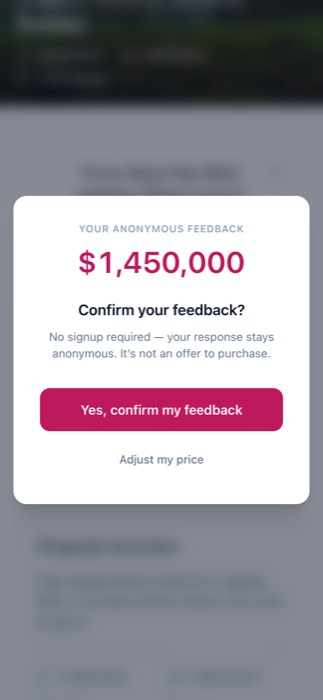
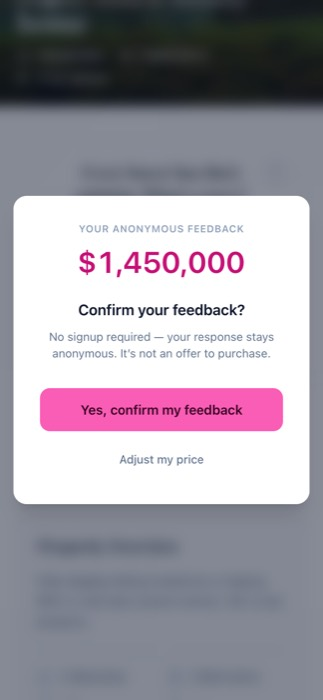
Mitch Harrop Team: brighter pink (#FA5DB5) from his public branding, with readable text
Accent fill (buttons, sliders, rings, rules, nav highlight) is now #FA5DB5 (hover/gradient #F943A9). White is not
readable on it (2.9:1), so text ON the pink is deep plum #3D0626 (5.8:1) and pink TEXT on white (prices, badges,
links, labels, icons) uses #C61076 (5.6:1). New CSS variables (--brand-accent-text, --brand-button-text,
--team-accent-text, --team-accent-on) are set only by the team theme and fall back to today's values, so every
other brand, team and agent is unchanged.

Tests: team-theme 35 (contrast guards updated); full unit suite 2196 passed, the 4 leadership failures are
pre-existing on main. next build OK. Staging: 42/42 page + 16/16 office-list checks with the new colours.

Changed region(s): [[0.1238, 0.54, 0.8978, 0.63], [0.4025, 0.36, 0.4334, 0.39], [0.2477, 0.36, 0.2786, 0.39]]

diff --git a/src/app/dashboard/page.js b/src/app/dashboard/page.js
@@ -222,7 +222,7 @@ function Sidebar({ active, onNavigate, onSignOut, sidebarOpen, setSidebarOpen, u
                     : 'text-stone-500 hover:text-stone-900 hover:bg-stone-100/60'
                 }`}
               >
-                <Icon className={`w-4 h-4 ${isActive ? 'text-[var(--team-accent,currentColor)]' : ''}`} strokeWidth={1.5} />
+                <Icon className={`w-4 h-4 ${isActive ? 'text-[var(--team-accent-text,currentColor)]' : ''}`} strokeWidth={1.5} />
                 {item.label}
               </Link>
             );
@@ -240,7 +240,7 @@ function Sidebar({ active, onNavigate, onSignOut, sidebarOpen, setSidebarOpen, u
                   : 'text-stone-500 hover:text-stone-900 hover:bg-stone-100/60'
               }`}
             >
-              <Icon className={`w-4 h-4 ${isActive ? 'text-[var(--team-accent,currentColor)]' : ''}`} strokeWidth={1.5} />
+              <Icon className={`w-4 h-4 ${isActive ? 'text-[var(--team-accent-text,currentColor)]' : ''}`} strokeWidth={1.5} />
               {item.label}
             </button>
           );
@@ -378,7 +378,7 @@ function PropertyCard({ property, onToggleVisibility, toggling, onArchive, archi
           <span className={`px-2.5 py-1 text-[10px] font-medium uppercase tracking-[0.12em] rounded-sm ${
             property.listingStatus === 'on-market'
               ? 'bg-white/90 text-stone-800'
-              : 'bg-white/90 text-[var(--team-accent,#c64500)]'
+              : 'bg-white/90 text-[var(--team-accent-text,#c64500)]'
           }`}>
             {property.listingStatus === 'on-market' ? 'On Market' : 'Pre-Market'}
           </span>
@@ -412,7 +412,7 @@ function PropertyCard({ property, onToggleVisibility, toggling, onArchive, archi
           href={`/find-property?propertyId=${property.id}`}
           target="_blank"
           rel="noopener noreferrer"
-          className="font-medium text-stone-900 text-sm truncate mb-1 block hover:text-[var(--team-accent,#c64500)] transition-colors"
+          className="font-medium text-stone-900 text-sm truncate mb-1 block hover:text-[var(--team-accent-text,#c64500)] transition-colors"
         >
           {property.formattedAddress || property.address || 'No address'}
         </a>
@@ -695,7 +695,7 @@ function EmptyState({
       </p>
       <Link
         href={href}
-        className="add-property-pulse inline-flex items-center gap-2 px-6 py-3 bg-[var(--team-accent,#e38100)] hover:bg-[var(--team-accent-strong,#cc7400)] text-white text-sm font-semibold tracking-wide rounded-md transition-colors"
+        className="add-property-pulse inline-flex items-center gap-2 px-6 py-3 bg-[var(--team-accent,#e38100)] hover:bg-[var(--team-accent-strong,#cc7400)] text-[var(--team-accent-on,#ffffff)] text-sm font-semibold tracking-wide rounded-md transition-colors"
       >
         <Plus className="w-4 h-4" strokeWidth={1.75} />
         {cta}
@@ -926,7 +926,7 @@ function ProfilePhotoPrompt({ onDismiss }) {
         </button>
         <Link
           href="/dashboard/settings"
-          className="px-4 py-2.5 rounded-xl bg-gradient-to-r from-[var(--team-accent,#e48900)] to-[var(--team-accent-strong,#c64500)] text-white font-semibold text-sm hover:shadow-lg transition-all whitespace-nowrap"
+          className="px-4 py-2.5 rounded-xl bg-gradient-to-r from-[var(--team-accent,#e48900)] to-[var(--team-accent-strong,#c64500)] text-[var(--team-accent-on,#ffffff)] font-semibold text-sm hover:shadow-lg transition-all whitespace-nowrap"
         >
           Upload Photo
         </Link>
@@ -1423,7 +1423,7 @@ function DashboardPage() {
             </button>
             <span className="font-serif text-lg text-stone-900">Dashboard</span>
             <Link href={addHref} className="p-2 hover:bg-stone-100 rounded-md" aria-label="Add property">
-              <Plus className="w-5 h-5 text-[var(--team-accent,#e38100)]" strokeWidth={2} />
+              <Plus className="w-5 h-5 text-[var(--team-accent-text,#e38100)]" strokeWidth={2} />
             </Link>
           </div>
         </div>
@@ -1465,7 +1465,7 @@ function DashboardPage() {
             </div>
             <Link
               href={addHref}
-              className="add-property-pulse hidden sm:inline-flex shrink-0 items-center gap-2 px-6 py-3 bg-[var(--team-accent,#e38100)] hover:bg-[var(--team-accent-strong,#cc7400)] text-white text-sm font-semibold tracking-wide rounded-md transition-colors"
+              className="add-property-pulse hidden sm:inline-flex shrink-0 items-center gap-2 px-6 py-3 bg-[var(--team-accent,#e38100)] hover:bg-[var(--team-accent-strong,#cc7400)] text-[var(--team-accent-on,#ffffff)] text-sm font-semibold tracking-wide rounded-md transition-colors"
             >
               <Plus className="w-4 h-4" strokeWidth={1.75} />
               Add Property
@@ -1581,7 +1581,7 @@ function DashboardPage() {
               href={addHref}
               className="sm:hidden bg-white rounded-md border border-stone-200 px-5 py-4 flex items-center gap-4 hover:border-stone-300 transition-colors group"
             >
-              <Plus className="w-5 h-5 text-[var(--team-accent,#e38100)]" strokeWidth={1.5} />
+              <Plus className="w-5 h-5 text-[var(--team-accent-text,#e38100)]" strokeWidth={1.5} />
               <div className="flex-1">
                 <p className="text-sm font-medium text-stone-900">Add Property</p>
                 <p className="text-xs text-stone-500">List a new property for your client</p>
@@ -1694,7 +1694,7 @@ function DashboardPage() {
             >
               <div className="px-8 pt-9 pb-2 text-center">
                 <div className="mx-auto mb-5 h-px w-10 bg-[var(--team-accent,#e38100)]" aria-hidden="true" />
-                <CheckCircle className="w-7 h-7 text-[var(--team-accent,#e38100)] mx-auto mb-3" />
+                <CheckCircle className="w-7 h-7 text-[var(--team-accent-text,#e38100)] mx-auto mb-3" />
                 <h2 className="font-serif text-2xl text-stone-900">
                   {successModal === 'created' ? 'Property created' : 'Changes saved'}
                 </h2>
@@ -1725,7 +1725,7 @@ function DashboardPage() {
 
                 <button
                   onClick={() => setSuccessModal(null)}
-                  className="w-full mt-2 py-3 bg-[var(--team-accent,#e38100)] hover:bg-[var(--team-accent-strong,#cc7400)] text-white text-sm font-medium tracking-wide rounded-md transition-colors"
+                  className="w-full mt-2 py-3 bg-[var(--team-accent,#e38100)] hover:bg-[var(--team-accent-strong,#cc7400)] text-[var(--team-accent-on,#ffffff)] text-sm font-medium tracking-wide rounded-md transition-colors"
                 >
                   Got it
                 </button>

diff --git a/src/app/dashboard/team/page.js b/src/app/dashboard/team/page.js
@@ -238,7 +238,7 @@ export default function MyTeamPage() {
         {/* Invitations received */}
         {incoming.length > 0 && (
           <section className="bg-white rounded-xl border border-[var(--team-accent-border,var(--color-orange-200))] p-5">
-            <h2 className="text-sm font-bold text-slate-900 flex items-center gap-2"><Mail className="w-4 h-4 text-[var(--team-accent,var(--color-orange-500))]" /> Invitations for you</h2>
+            <h2 className="text-sm font-bold text-slate-900 flex items-center gap-2"><Mail className="w-4 h-4 text-[var(--team-accent-text,var(--color-orange-500))]" /> Invitations for you</h2>
             <ul className="mt-3 divide-y divide-slate-100">
               {incoming.map((i) => (
                 <li key={i.id} className="py-3 flex flex-wrap items-center justify-between gap-3">
@@ -251,7 +251,7 @@ export default function MyTeamPage() {
                     <button
                       onClick={() => respond(i.id, 'accept', 'You’ve joined the team.')}
                       disabled={i.blocked || busy !== null}
-                      className="inline-flex items-center gap-1 px-3.5 py-2 rounded-lg bg-[var(--team-accent,var(--color-orange-500))] text-white text-sm font-semibold disabled:opacity-40 disabled:cursor-not-allowed"
+                      className="inline-flex items-center gap-1 px-3.5 py-2 rounded-lg bg-[var(--team-accent,var(--color-orange-500))] text-[var(--team-accent-on,#ffffff)] text-sm font-semibold disabled:opacity-40 disabled:cursor-not-allowed"
                     ><Check className="w-4 h-4" /> Accept</button>
                     <button
                       onClick={() => respond(i.id, 'decline', 'Invitation declined.')}
@@ -313,7 +313,7 @@ export default function MyTeamPage() {
                   autoComplete="off"
                   className="min-w-0 flex-1 px-3 py-2 rounded-lg border border-slate-200 text-sm text-slate-900 placeholder:text-slate-400 focus:outline-none focus:ring-2 focus:ring-[color-mix(in_oklab,var(--team-accent,var(--color-orange-500))_20%,transparent)]"
                 />
-                <button type="submit" disabled={busy !== null || !email.trim()} className="px-4 py-2 rounded-lg bg-[var(--team-accent,var(--color-orange-500))] text-white text-sm font-semibold disabled:opacity-40">
+                <button type="submit" disabled={busy !== null || !email.trim()} className="px-4 py-2 rounded-lg bg-[var(--team-accent,var(--color-orange-500))] text-[var(--team-accent-on,#ffffff)] text-sm font-semibold disabled:opacity-40">
                   {busy === 'invite' ? 'Sending…' : 'Invite'}
                 </button>
               </form>
@@ -348,7 +348,7 @@ export default function MyTeamPage() {
                     role="tab"
                     aria-selected={tab === id}
                     onClick={() => setTab(id)}
-                    className={`px-3.5 py-1.5 rounded-md ${tab === id ? 'bg-white text-[var(--team-accent,var(--color-slate-900))] shadow-sm' : 'text-slate-500 hover:text-slate-800'}`}
+                    className={`px-3.5 py-1.5 rounded-md ${tab === id ? 'bg-white text-[var(--team-accent-text,var(--color-slate-900))] shadow-sm' : 'text-slate-500 hover:text-slate-800'}`}
                   >{label}</button>
                 ))}
               </div>
@@ -376,7 +376,7 @@ export default function MyTeamPage() {
             ) : listing.status === 'error' ? (
               <div>
                 <p className="text-sm text-slate-600 mb-3">We couldn&apos;t load these properties.</p>
-                <button onClick={tab === 'team' ? loadTeamProps : loadMyProps} className="px-4 py-2 rounded-lg bg-[var(--team-accent,var(--color-orange-500))] text-white text-sm font-semibold">Retry</button>
+                <button onClick={tab === 'team' ? loadTeamProps : loadMyProps} className="px-4 py-2 rounded-lg bg-[var(--team-accent,var(--color-orange-500))] text-[var(--team-accent-on,#ffffff)] text-sm font-semibold">Retry</button>
               </div>
             ) : rows.length === 0 ? (
               <p className="text-sm text-slate-500">{tab === 'team' ? 'Your teammates have no properties to show yet.' : 'You have no properties yet.'}</p>
@@ -409,7 +409,7 @@ export default function MyTeamPage() {
                           <Link href={`/dashboard/property/${p.id}`} className="inline-flex items-center gap-1 text-indigo-600 hover:text-indigo-700 font-semibold">
                             {tab === 'team' ? 'View report (read-only)' : 'View report'} <BarChart3 className="w-3 h-3" />
                           </Link>
-                          <Link href={`/find-property?propertyId=${p.id}`} target="_blank" className="inline-flex items-center gap-1 text-[var(--team-accent,var(--color-orange-600))] hover:text-[var(--team-accent-strong,var(--color-orange-700))] font-semibold">
+                          <Link href={`/find-property?propertyId=${p.id}`} target="_blank" className="inline-flex items-center gap-1 text-[var(--team-accent-text,var(--color-orange-600))] hover:text-[var(--team-accent-text,var(--color-orange-700))] font-semibold">
                             View page <ExternalLink className="w-3 h-3" />
                           </Link>
                         </span>

diff --git a/tests/unit/team-theme.test.js b/tests/unit/team-theme.test.js
@@ -16,16 +16,23 @@ const PINK = { key: MITCH_HARROP_PINK.key };
 
 describe('team palettes: contrast and safety', () => {
   for (const t of Object.values(TEAM_THEME_PALETTES)) {
-    it(`${t.key}: white text on the accent and its dark shade, and the accent as text, all meet WCAG AA (4.5:1)`, () => {
+    it(`${t.key}: button labels on the accent fill and accent-coloured text all meet WCAG AA (4.5:1)`, () => {
       const c = t.colors;
       expect(contrastRatio(c.primaryText, c.primary)).toBeGreaterThanOrEqual(4.5);
       expect(contrastRatio(c.primaryText, c.primaryDark)).toBeGreaterThanOrEqual(4.5);
-      expect(contrastRatio(c.primary, '#ffffff')).toBeGreaterThanOrEqual(4.5);
-      expect(contrastRatio(c.primary, c.soft)).toBeGreaterThanOrEqual(4.5);
+      expect(contrastRatio(c.accentText, '#ffffff')).toBeGreaterThanOrEqual(4.5);
+      expect(contrastRatio(c.accentText, c.soft)).toBeGreaterThanOrEqual(4.5);
+      expect(contrastRatio(c.accentText, '#f5f5f4')).toBeGreaterThanOrEqual(4.5); // active nav row background
     });
   }
 
-  it('the Mitch Harrop palette is marked temporary, not an official brand, and carries no logo or name', () => {
+  it('the Mitch Harrop accent is the bright pink of his public branding (#FA5DB5); white is never used as text on it', () => {
+    expect(MITCH_HARROP_PINK.colors.primary).toBe('#FA5DB5');
+    expect(contrastRatio('#ffffff', MITCH_HARROP_PINK.colors.primary)).toBeLessThan(4.5); // why labels on it are plum
+    expect(teamBrandColors(PINK)).toMatchObject({ primaryText: '#3D0626', buttonText: '#3D0626', accentText: '#C61076' });
+  });
+
+  it('the Mitch Harrop palette carries no logo or name', () => {
     expect(MITCH_HARROP_PINK.official).toBe(false);
     expect(Object.keys(MITCH_HARROP_PINK)).toEqual(['key', 'official', 'colors']);
   });
@@ -34,7 +41,7 @@ describe('team palettes: contrast and safety', () => {
     expect(knownTeamTheme(PINK)).toBe(MITCH_HARROP_PINK);
     expect(knownTeamTheme({ key: 'nope' })).toBeNull();
     expect(knownTeamTheme({ key: 'constructor' })).toBeNull();
-    expect(knownTeamTheme({ key: MITCH_HARROP_PINK.key, colors: { primary: 'red;background:url(x)' } }).colors.primary).toBe('#be185d');
+    expect(knownTeamTheme({ key: MITCH_HARROP_PINK.key, colors: { primary: 'red;background:url(x)' } }).colors.primary).toBe('#FA5DB5');
     expect(knownTeamTheme(null)).toBeNull();
     expect(knownTeamTheme('mitch-harrop-pink')).toBeNull();
   });
@@ -47,8 +54,9 @@ describe('team palettes: contrast and safety', () => {
 
   it('a campaign card with no team theme resets the accent to today\'s colours even inside a themed dashboard', () => {
     const reset = campaignAccentStyle(null);
-    expect(Object.values(reset)).toEqual(['initial', 'initial', 'initial', 'initial']);
-    expect(campaignAccentStyle(PINK)['--team-accent']).toBe('#be185d');
+    expect(Object.values(reset)).toEqual(Array(6).fill('initial'));
+    expect(Object.keys(reset)).toEqual(Object.keys(campaignAccentStyle(PINK)));
+    expect(campaignAccentStyle(PINK)).toMatchObject({ '--team-accent': '#FA5DB5', '--team-accent-text': '#C61076', '--team-accent-on': '#3D0626' });
   });
 });
 
@@ -69,12 +77,13 @@ describe('buyer page colours: team accent only for that team\'s campaigns', () =
   it('a themed campaign uses the team accent over the office colours (the office logo is untouched: colours only)', () => {
     expect(computeEffectiveColors({ brand: office, agentData: { brandColors: null }, teamColors: team })).toEqual(team);
     expect(computeBrandStyle(team)).toEqual({
-      '--brand-primary': '#be185d', '--brand-primary-dark': '#9d174d', '--brand-text-on-primary': '#ffffff',
+      '--brand-primary': '#FA5DB5', '--brand-primary-dark': '#F943A9', '--brand-text-on-primary': '#3D0626',
+      '--brand-accent-text': '#C61076', '--brand-button-text': '#3D0626',
       // kiosk photo stays neutral slate (the no-brand default): pink only on the slider and buttons
       '--brand-tint': '#334155', '--brand-tint-dark': '#0f172a',
     });
     // an agency brand never sets the tint, so its kiosk overlay is exactly as before
-    expect(Object.keys(computeBrandStyle(office.colors))).not.toContain('--brand-tint');
+    for (const k of ['--brand-tint', '--brand-accent-text', '--brand-button-text']) expect(Object.keys(computeBrandStyle(office.colors))).not.toContain(k);
   });
 
   it('the dashboard branding preview still wins over everything', () => {

diff --git a/src/app/utils/teamTheme.js b/src/app/utils/teamTheme.js
@@ -8,22 +8,25 @@
  * and agency title) keeps applying exactly as before; a team theme only swaps the accent colour, and only where
  * the page already used an accent.
  *
- * Every palette must keep white text readable on `primary` and `primaryDark`, and `primary` readable as text on
- * white (WCAG AA, 4.5:1). tests/unit/team-theme.test.js enforces this.
+ * Every palette must keep text readable (WCAG AA, 4.5:1), enforced by tests/unit/team-theme.test.js:
+ *   `primaryText` on `primary` and `primaryDark` (button labels on the accent fill), and `accentText` on white and on
+ *   `soft` (accent-coloured text such as prices, badges, links and labels). A bright `primary` is only ever a fill,
+ *   a slider, a ring or a rule, never text on white.
  */
 
-// Mitch Harrop Team (Harcourts Property Hub). No official team logo or team colours exist in Premarket (the only
-// agency brand is the HPH office brand), so this is a TEMPORARY, neutral pink accent — not an official brand
-// identity. Swap in the team's official colours here when they are supplied.
+// Mitch Harrop Team (Harcourts Property Hub). No team logo or colours are configured in Premarket (the only agency
+// brand is the HPH office brand). The accent is the bright pink of Mitch Harrop's public branding (~#FA5DB5, supplied
+// by Luke on 2026-11-17); the text shades are the same hue, darkened only as far as readability requires.
 export const MITCH_HARROP_PINK = Object.freeze({
   key: 'mitch-harrop-pink',
   official: false,
   colors: Object.freeze({
-    primary: '#be185d', // accent: buttons, slider, highlights (6.0:1 against white)
-    primaryDark: '#9d174d', // gradient end / hover (8.0:1 against white)
-    primaryText: '#ffffff',
-    soft: '#fdf2f8', // faint tint for selected states
-    softBorder: '#fbcfe8',
+    primary: '#FA5DB5', // accent fill: buttons, slider, rings, rules, highlights
+    primaryDark: '#F943A9', // gradient end / hover fill
+    primaryText: '#3D0626', // text ON the accent fill (deep plum, 5.8:1; white would be 2.9:1)
+    accentText: '#C61076', // accent-coloured text on white (5.6:1)
+    soft: '#FFF0F8', // faint tint behind labels
+    softBorder: '#FDC3E4',
     // The iPad kiosk tints its photo with the brand colour; for a team accent it stays the neutral slate it has with
     // no brand, so the pink is only on the slider and the approve button, never washed over the photo.
     tint: '#334155',
@@ -44,8 +47,8 @@ export function knownTeamTheme(theme) {
 export function teamBrandColors(theme) {
   const t = knownTeamTheme(theme);
   if (!t) return null;
-  const { primary, primaryDark, primaryText, tint, tintDark } = t.colors;
-  return { primary, primaryDark, primaryText, tint, tintDark };
+  const { primary, primaryDark, primaryText, accentText, tint, tintDark } = t.colors;
+  return { primary, primaryDark, primaryText, accentText, buttonText: primaryText, tint, tintDark };
 }
 
 /** Dashboard accent variables. Every dashboard use reads `var(--team-accent, <today's colour>)`, so with no theme
@@ -58,6 +61,8 @@ export function teamAccentStyle(theme) {
     '--team-accent-strong': t.colors.primaryDark,
     '--team-accent-soft': t.colors.soft,
     '--team-accent-border': t.colors.softBorder,
+    '--team-accent-text': t.colors.accentText,
+    '--team-accent-on': t.colors.primaryText,
   };
 }
 
@@ -68,6 +73,8 @@ const NO_TEAM_ACCENT = Object.freeze({
   '--team-accent-strong': 'initial',
   '--team-accent-soft': 'initial',
   '--team-accent-border': 'initial',
+  '--team-accent-text': 'initial',
+  '--team-accent-on': 'initial',
 });
 
 /** For one CAMPAIGN's card inside a dashboard: `theme` undefined = not known yet (inherit the dashboard's accent),

diff --git a/src/app/components/property-page/ValuationSliderRow.js b/src/app/components/property-page/ValuationSliderRow.js
@@ -75,7 +75,7 @@ export default function ValuationSliderRow({
                 initial={{ scale: 1.08 }}
                 animate={{ scale: 1 }}
                 transition={{ duration: 0.16 }}
-                className="text-lg sm:text-xl font-semibold text-[var(--brand-primary,#c2410c)] tabular-nums flex-shrink-0"
+                className="text-lg sm:text-xl font-semibold text-[var(--brand-accent-text,var(--brand-primary,#c2410c))] tabular-nums flex-shrink-0"
                 style={{ fontFamily: 'var(--font-inter, system-ui, sans-serif)' }}
               >
                 {formatMoney(priceOpinion)}
@@ -109,7 +109,7 @@ export default function ValuationSliderRow({
           onClick={onSubmit}
           disabled={!hasInteracted}
           aria-label="Submit my feedback"
-          className="flex-shrink-0 inline-flex items-center gap-1.5 h-11 pl-4 pr-4 sm:pr-5 rounded-full bg-[var(--brand-primary,#c2410c)] text-white shadow-lg disabled:opacity-30 disabled:cursor-not-allowed transition-opacity"
+          className="flex-shrink-0 inline-flex items-center gap-1.5 h-11 pl-4 pr-4 sm:pr-5 rounded-full bg-[var(--brand-primary,#c2410c)] text-[var(--brand-button-text,#ffffff)] shadow-lg disabled:opacity-30 disabled:cursor-not-allowed transition-opacity"
         >
           <svg className="w-4 h-4 flex-shrink-0" fill="none" stroke="currentColor" viewBox="0 0 24 24" strokeWidth={2.5}>
             <path strokeLinecap="round" strokeLinejoin="round" d="M5 13l4 4L19 7" />

diff --git a/src/app/components/PropertyPageClient.js b/src/app/components/PropertyPageClient.js
@@ -898,7 +898,7 @@ export default function PropertyPageClient({ previewBrand, previewPropertyId, in
         <p className="text-xs font-semibold text-slate-400 uppercase tracking-wider mb-3">
           Your anonymous feedback
         </p>
-        <div className="text-4xl sm:text-5xl font-semibold text-[var(--brand-primary,#c2410c)] mb-6 tabular-nums">
+        <div className="text-4xl sm:text-5xl font-semibold text-[var(--brand-accent-text,var(--brand-primary,#c2410c))] mb-6 tabular-nums">
           {formatMoney(priceOpinion)}
         </div>
         <h3 className="text-lg font-semibold text-slate-900 mb-2">
@@ -1072,7 +1072,7 @@ export default function PropertyPageClient({ previewBrand, previewPropertyId, in
               <h3 className="text-2xl font-semibold text-slate-900 mb-3" style={{ fontFamily: 'var(--font-playfair, serif)' }}>
                 Your opinion&rsquo;s locked in
               </h3>
-              <div className="text-4xl font-semibold text-[var(--brand-primary,#c2410c)] mb-4 tabular-nums">
+              <div className="text-4xl font-semibold text-[var(--brand-accent-text,var(--brand-primary,#c2410c))] mb-4 tabular-nums">
                 {formatMoney(priceOpinion)}
               </div>
               <p className="text-slate-500 mb-1 text-sm">

diff --git a/src/app/utils/brandStyle.js b/src/app/utils/brandStyle.js
@@ -38,6 +38,10 @@ export function computeBrandStyle(colors) {
   // kiosk overlay keeps using its primary colours exactly as before.
   if (colors.tint) style['--brand-tint'] = colors.tint;
   if (colors.tintDark) style['--brand-tint-dark'] = colors.tintDark;
+  // Team accents only: a readable text shade for accent-coloured text (prices) and the label colour for the one button
+  // that had a fixed white label. Absent for every agency brand, so those keep exactly today's colours.
+  if (colors.accentText) style['--brand-accent-text'] = colors.accentText;
+  if (colors.buttonText) style['--brand-button-text'] = colors.buttonText;
   return style;
 }
 

diff --git a/src/app/components/TeamCampaignMarker.js b/src/app/components/TeamCampaignMarker.js
@@ -22,7 +22,7 @@ export function TeamLabel({ theme }) {
   return (
     <p className="mt-1">
       <span
-        className="inline-flex px-1.5 py-0.5 rounded-full text-[11px] font-semibold leading-none bg-[var(--team-accent-soft)] text-[var(--team-accent)] ring-1 ring-inset ring-[var(--team-accent-border)]"
+        className="inline-flex px-1.5 py-0.5 rounded-full text-[11px] font-semibold leading-none bg-[var(--team-accent-soft)] text-[var(--team-accent-text)] ring-1 ring-inset ring-[var(--team-accent-border)]"
         data-testid="team-label"
       >
         {label}

diff --git a/src/app/components/property-page/PriceOpinionCard.js b/src/app/components/property-page/PriceOpinionCard.js
@@ -87,7 +87,7 @@ export default function PriceOpinionCard({
           initial={{ scale: 1.04 }}
           animate={{ scale: 1 }}
           transition={{ duration: 0.18 }}
-          className="mt-4 text-4xl sm:text-5xl font-semibold text-[var(--brand-primary,#c2410c)] tabular-nums"
+          className="mt-4 text-4xl sm:text-5xl font-semibold text-[var(--brand-accent-text,var(--brand-primary,#c2410c))] tabular-nums"
           style={{ fontFamily: 'var(--font-inter, system-ui, sans-serif)' }}
         >
           {formatMoney(priceOpinion)}

diff --git a/docs/visual-evidence/mitch-harrop-team-theme/README.md b/docs/visual-evidence/mitch-harrop-team-theme/README.md
@@ -1,5 +1,7 @@
 # Mitch Harrop Team accent — visual evidence
 
+Palette (2026-11-17, updated): accent **#FA5DB5** (Mitch Harrop's public branding pink) for fills, sliders, rings and rules; **#3D0626** deep plum for text on the pink (5.8:1); **#C61076** for pink text on white (5.6:1). Screens below are re-captured with this palette.
+
 ## Production team (verified read-only, 2026-11-17)
 - Team id **`ICSKK5kDs5RF5OYs11mM`**, name "Mitch Harrop Team". It is the only team with that name. It is in the Harcourts Property Hub office (`ioxigzf4hcRtowqL4C94`), and the office has 14 teams.
 - It has 7 members, including Mitch Harrop. There are no stale team pointers.
